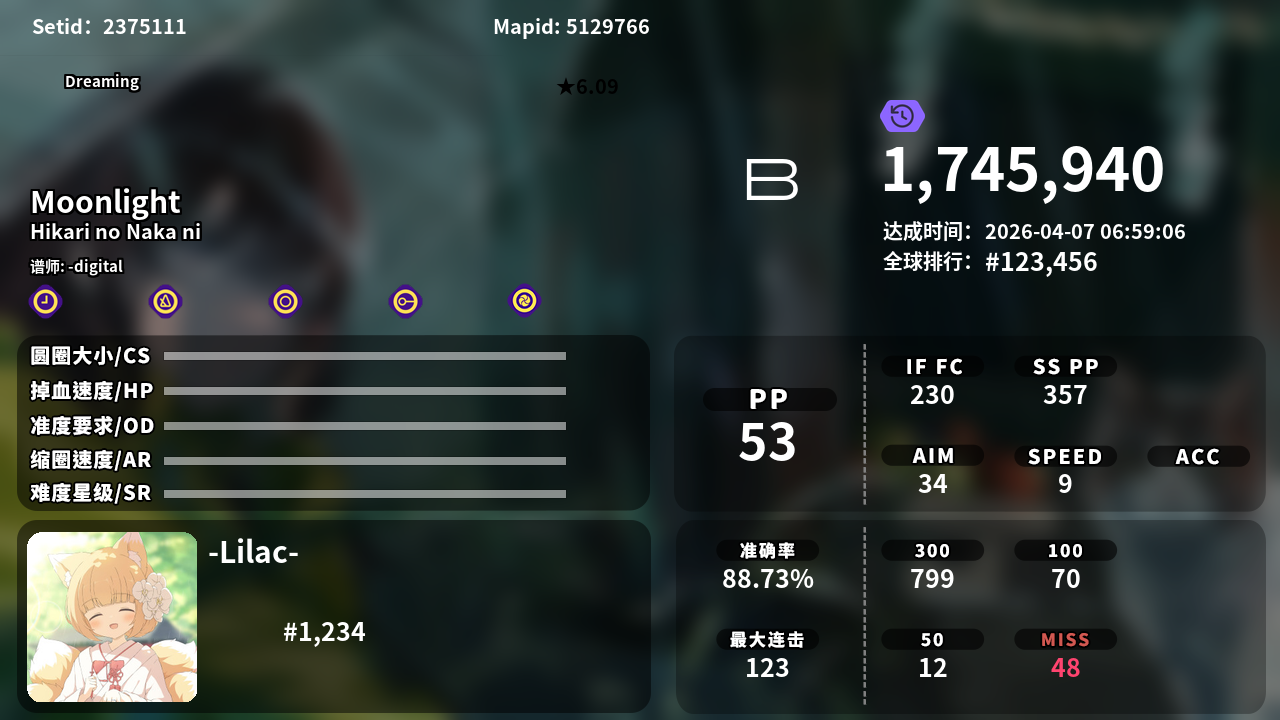
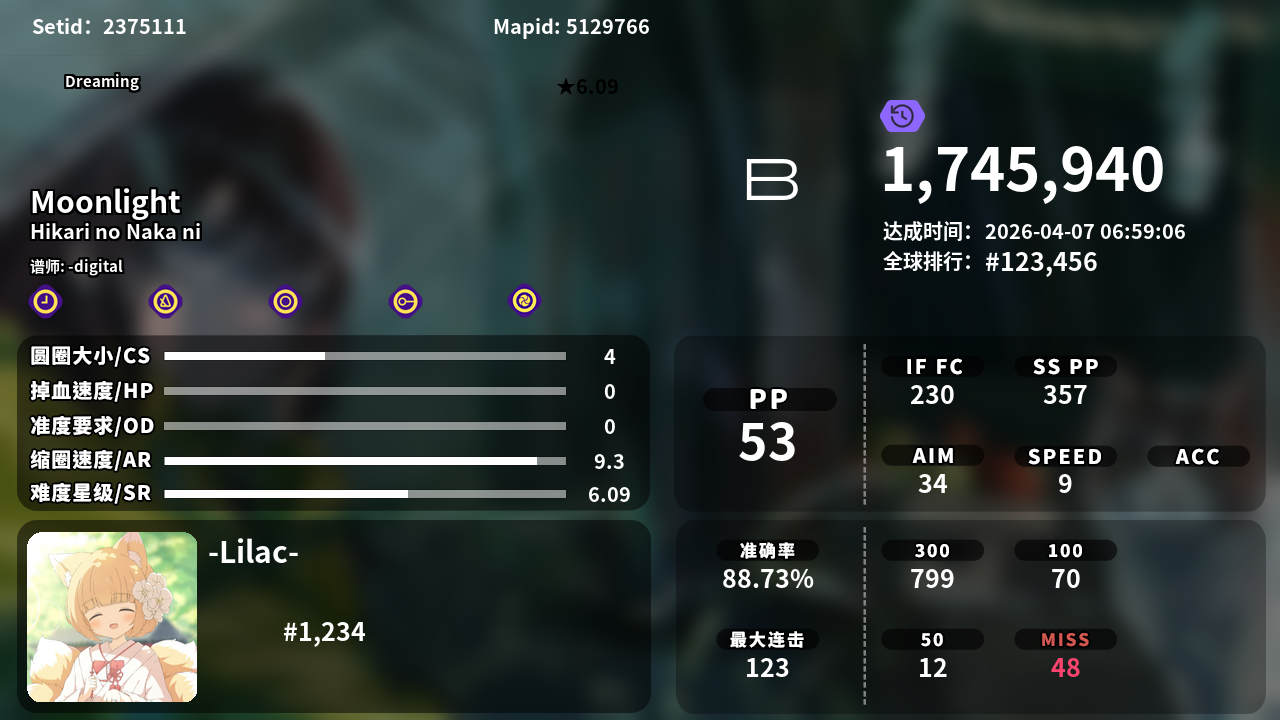
补全左侧部分谱面信息

diff --git a/draw.py b/draw.py
@@ -766,6 +766,46 @@ class ScoreImageGenerator:
                 anchor="mm",
                 fill=(255, 68, 111, 255)  # 红色
             )
+            
+        # ============== 新增：绘制左侧 Map Stats (CS, HP, OD, AR, SR) ==============
+        # 数据获取
+        cs = beatmap_info.get("cs", 0)
+        hp = beatmap_info.get("drain", 0)
+        od = beatmap_info.get("accuracy", 0)
+        ar = beatmap_info.get("ar", 0)
+        sr = beatmap_info.get("difficulty_rating", 0)
+        
+        map_stats = [cs, hp, od, ar]
+        for num, val in enumerate(map_stats):
+            # 将0-10的属性值映射到最大长度400
+            difflen = int(400 * max(0, val) / 10) if val <= 10 else 400
+            if difflen > 0:
+                diff_len_img = Image.new("RGBA", (difflen, 8), (255, 255, 255, 255))
+                im.alpha_composite(diff_len_img, (165, 352 + 35 * num))
+            
+            # 绘制属性数值 (610, 355 + 35 * num)
+            text_val = f"{val:.0f}" if val == round(val) else (f"{val:.2f}" if val != round(val, 1) else f"{val:.1f}")
+            draw.text(
+                (610, 355 + 35 * num),
+                text_val,
+                font=self.assets.get_font('torus_sb_20'),
+                anchor="mm",
+                fill=(255, 255, 255, 255)
+            )
+            
+        # 绘制 SR (490)
+        sr_difflen = int(400 * max(0.0, sr) / 10) if sr <= 10 else 400
+        if sr_difflen > 0:
+            sr_diff_len_img = Image.new("RGBA", (sr_difflen, 8), (255, 255, 255, 255))
+            im.alpha_composite(sr_diff_len_img, (165, 490))
+        
+        draw.text(
+            (610, 493),
+            f"{sr:.2f}",
+            font=self.assets.get_font('torus_sb_20'),
+            anchor="mm",
+            fill=(255, 255, 255, 255)
+        )
     
     async def _draw_mod_icons(self, im: Image.Image, score_info: Dict[str, Any]):
         """绘制Mod图标 - 按照nonebot坐标 (880 + 50*n, 100)"""
